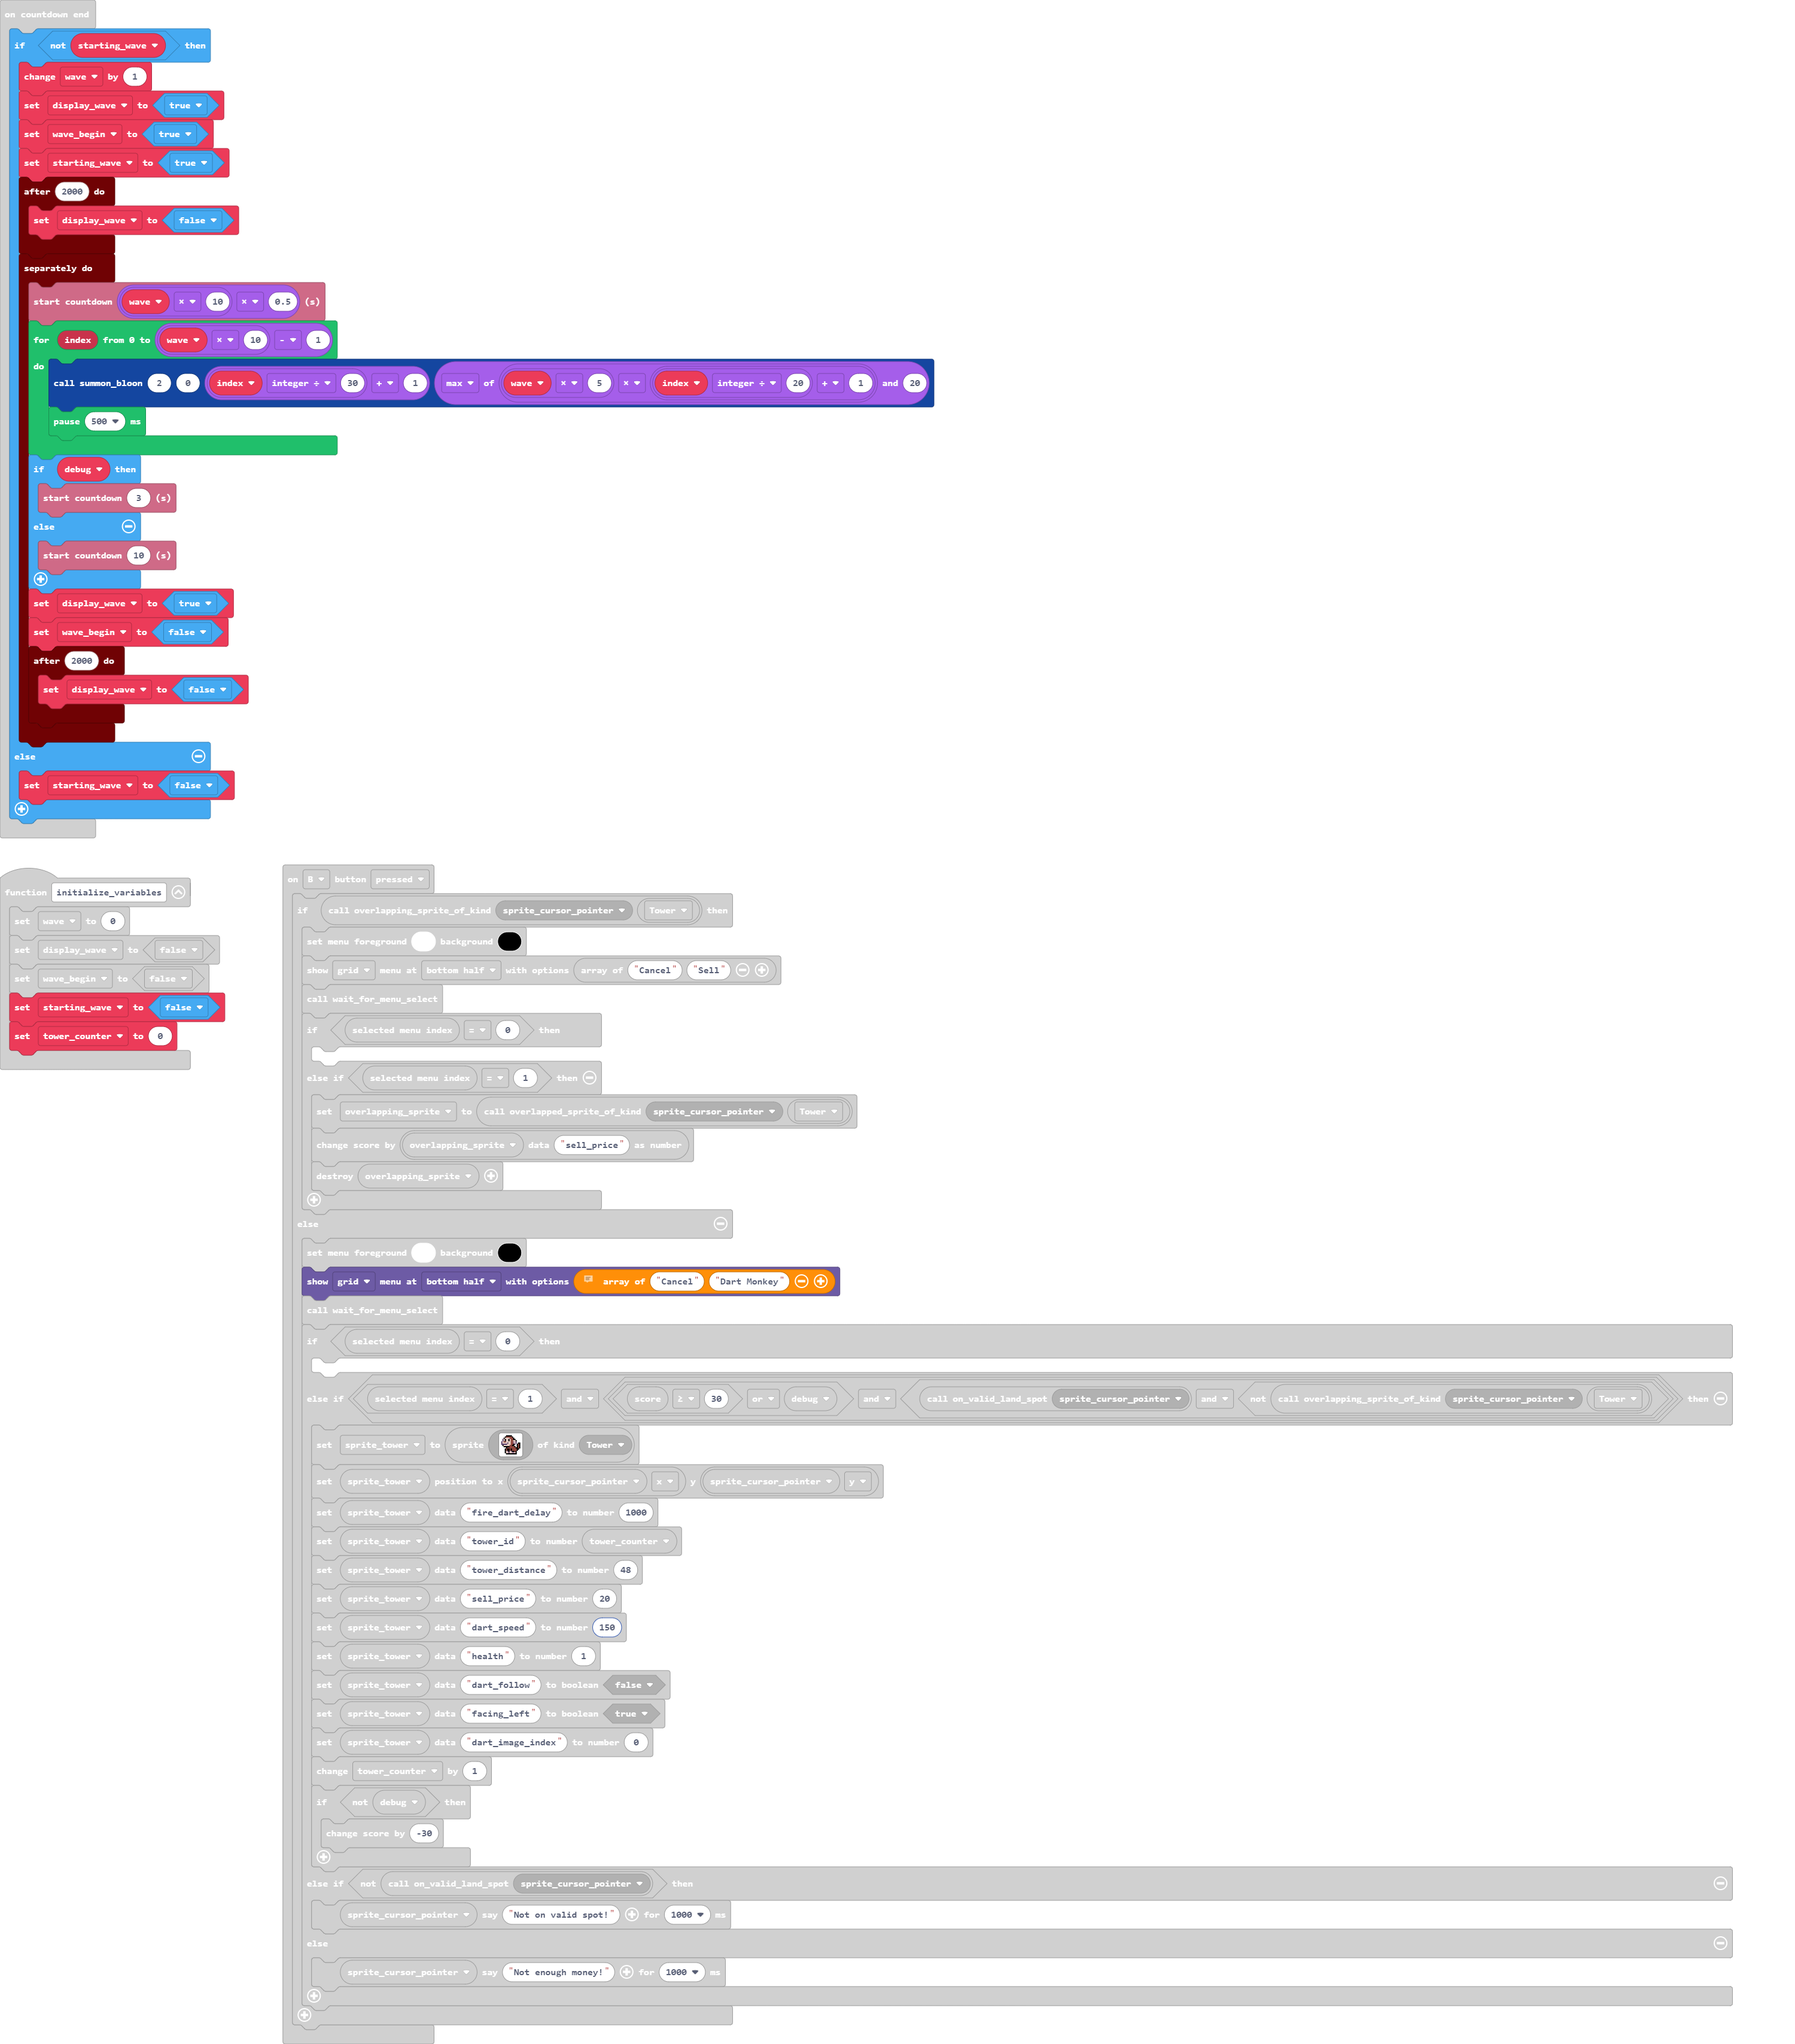
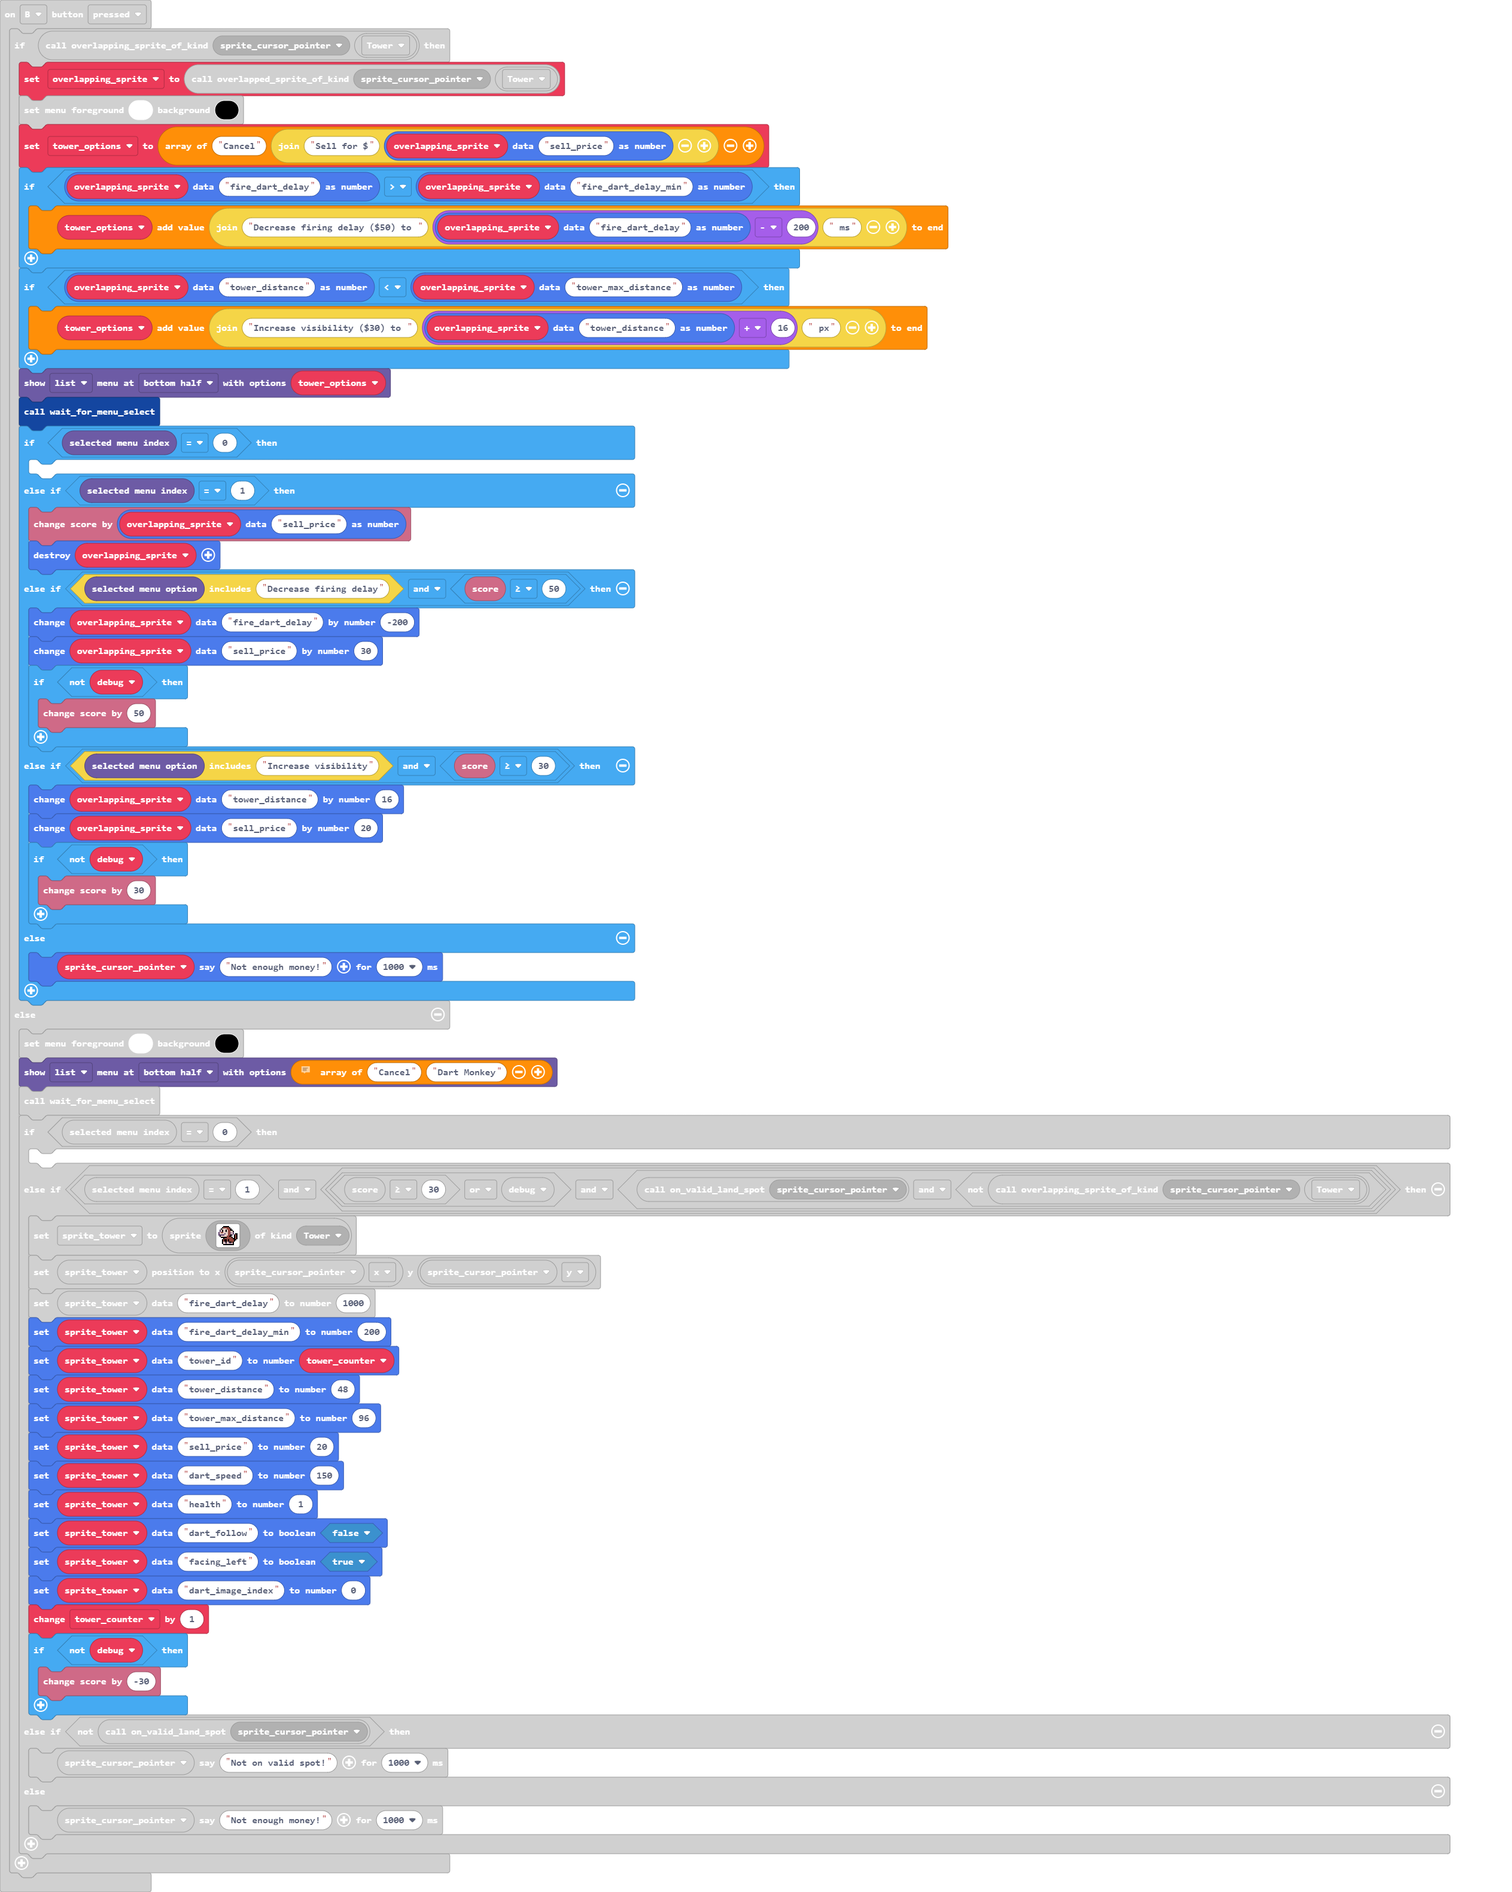
Upgrades!

diff --git a/main.ts b/main.ts
@@ -33,20 +33,41 @@ function overlapping_sprite_of_kind (sprite: Sprite, kind: number) {
 }
 controller.B.onEvent(ControllerButtonEvent.Pressed, function () {
     if (overlapping_sprite_of_kind(sprite_cursor_pointer, SpriteKind.Tower)) {
+        overlapping_sprite = overlapped_sprite_of_kind(sprite_cursor_pointer, SpriteKind.Tower)
         blockMenu.setColors(1, 15)
-        blockMenu.showMenu(["Cancel", "Sell"], MenuStyle.Grid, MenuLocation.BottomHalf)
+        tower_options = ["Cancel", "Sell for $" + sprites.readDataNumber(overlapping_sprite, "sell_price")]
+        if (sprites.readDataNumber(overlapping_sprite, "fire_dart_delay") > sprites.readDataNumber(overlapping_sprite, "fire_dart_delay_min")) {
+            tower_options.push("Decrease firing delay ($50) to " + (sprites.readDataNumber(overlapping_sprite, "fire_dart_delay") - 200) + " ms")
+        }
+        if (sprites.readDataNumber(overlapping_sprite, "tower_distance") < sprites.readDataNumber(overlapping_sprite, "tower_max_distance")) {
+            tower_options.push("Increase visibility ($30) to " + (sprites.readDataNumber(overlapping_sprite, "tower_distance") + 16) + " px")
+        }
+        blockMenu.showMenu(tower_options, MenuStyle.List, MenuLocation.BottomHalf)
         wait_for_menu_select()
         if (blockMenu.selectedMenuIndex() == 0) {
         	
         } else if (blockMenu.selectedMenuIndex() == 1) {
-            overlapping_sprite = overlapped_sprite_of_kind(sprite_cursor_pointer, SpriteKind.Tower)
             info.changeScoreBy(sprites.readDataNumber(overlapping_sprite, "sell_price"))
             overlapping_sprite.destroy()
+        } else if (blockMenu.selectedMenuOption().includes("Decrease firing delay") && info.score() >= 50) {
+            sprites.changeDataNumberBy(overlapping_sprite, "fire_dart_delay", -200)
+            sprites.changeDataNumberBy(overlapping_sprite, "sell_price", 30)
+            if (!(debug)) {
+                info.changeScoreBy(50)
+            }
+        } else if (blockMenu.selectedMenuOption().includes("Increase visibility") && info.score() >= 30) {
+            sprites.changeDataNumberBy(overlapping_sprite, "tower_distance", 16)
+            sprites.changeDataNumberBy(overlapping_sprite, "sell_price", 20)
+            if (!(debug)) {
+                info.changeScoreBy(30)
+            }
+        } else {
+            sprite_cursor_pointer.say("Not enough money!", 1000)
         }
     } else {
         blockMenu.setColors(1, 15)
         // https://bloons.fandom.com/wiki/Tower_price_lists#Bloons_TD_5:~:text=%24.-,Bloons%20TD%205
-        blockMenu.showMenu(["Cancel", "Dart Monkey"], MenuStyle.Grid, MenuLocation.BottomHalf)
+        blockMenu.showMenu(["Cancel", "Dart Monkey"], MenuStyle.List, MenuLocation.BottomHalf)
         wait_for_menu_select()
         if (blockMenu.selectedMenuIndex() == 0) {
         	
@@ -71,8 +92,10 @@ controller.B.onEvent(ControllerButtonEvent.Pressed, function () {
                 `, SpriteKind.Tower)
             sprite_tower.setPosition(sprite_cursor_pointer.x, sprite_cursor_pointer.y)
             sprites.setDataNumber(sprite_tower, "fire_dart_delay", 1000)
+            sprites.setDataNumber(sprite_tower, "fire_dart_delay_min", 200)
             sprites.setDataNumber(sprite_tower, "tower_id", tower_counter)
             sprites.setDataNumber(sprite_tower, "tower_distance", 48)
+            sprites.setDataNumber(sprite_tower, "tower_max_distance", 96)
             sprites.setDataNumber(sprite_tower, "sell_price", 20)
             sprites.setDataNumber(sprite_tower, "dart_speed", 150)
             sprites.setDataNumber(sprite_tower, "health", 1)
@@ -420,6 +443,7 @@ let bloon_path: tiles.Location[] = []
 let sprite_cursor: Sprite = null
 let menu_option_selected = false
 let sprite_tower: Sprite = null
+let tower_options: string[] = []
 let overlapping_sprite: Sprite = null
 let sprite_cursor_pointer: Sprite = null
 let tower_counter = 0
